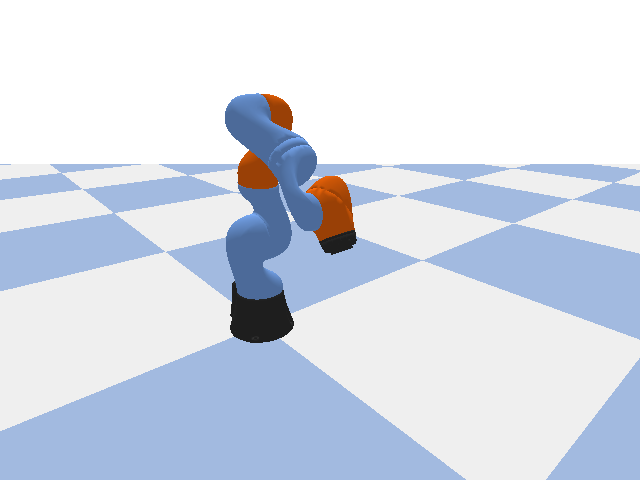
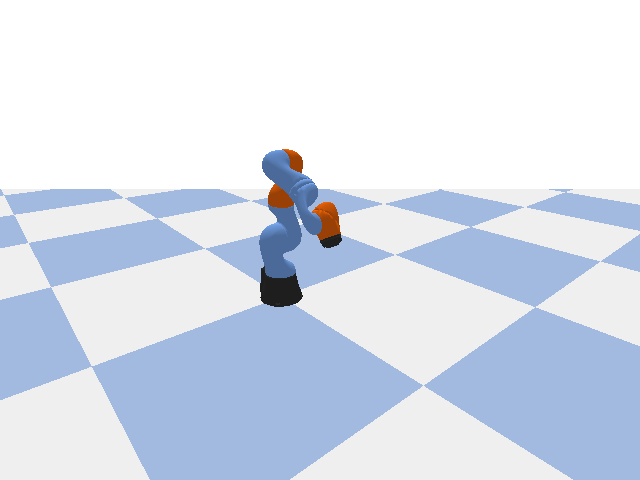
调参修改

diff --git a/sim/scripts/sim_ik_demo.py b/sim/scripts/sim_ik_demo.py
@@ -55,7 +55,7 @@ for _ in range(200):
 # 4. 固定相机
 view = p.computeViewMatrixFromYawPitchRoll(
     cameraTargetPosition=[0.35, 0.0, 0.45],
-    distance=1.2,
+    distance=2.0,
     yaw=50,
     pitch=-20,
     roll=0,
@@ -77,7 +77,7 @@ for i in range(frames_total):
     theta = 2.0 * math.pi * i / (frames_total - 1)
     target = [
         0.42,
-        0.12 * math.sin(theta),
+        0.22 * math.sin(theta),
         0.52 + 0.04 * math.cos(theta),
     ]
 
